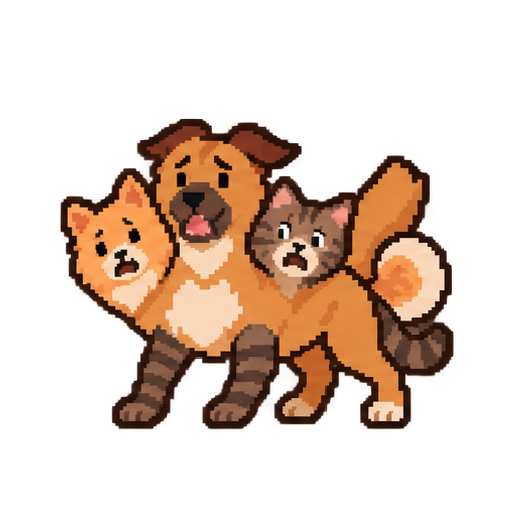
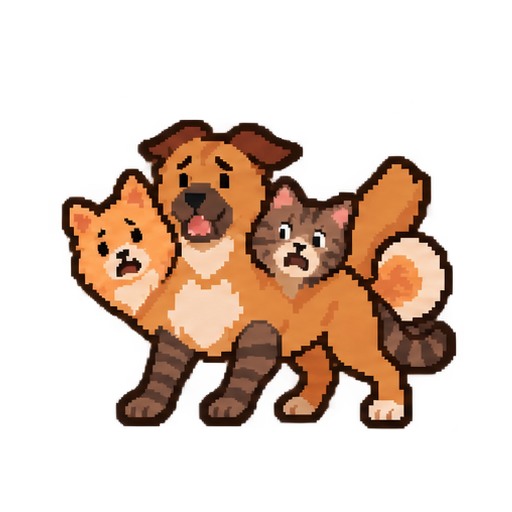
Correct front-leg bend in reaction 10

diff --git a/OfficialAssets/Animations/01e/reactions/README.md b/OfficialAssets/Animations/01e/reactions/README.md
@@ -21,7 +21,7 @@ Each reaction contains eight **512×512 transparent PNG frames**, a **2048×1024
 
 All three heads express the same level. Coat colors remain consistent; expressions, ears, posture and tails carry the progression. These are generated enlarged pixel-art studies, with eight distinct drawn poses rather than literal low-resolution production sprites. The initial pose and body anchor vary slightly between separately generated sequences; future app integration should transition through an idle pose rather than switch directly between their GIFs.
 
-The built-in image-generation tool created the sheets; [generation.json](generation.json) records the exact prompts and repairs. Selected generated sheets are preserved in `sources/`. Corrections repair clipped tails in levels 8/9, soften level 7's expression, and remove detached motion marks in level 10. Both tabby front legs, both golden hind legs, three heads and three tails remain attached to one golden body.
+The built-in image-generation tool created the sheets; [generation.json](generation.json) records the exact prompts and repairs. Selected generated sheets are preserved in `sources/`. Corrections repair clipped tails in levels 8/9, soften level 7's expression, and remove detached motion marks in level 10. Level 10's revised front legs fold with elbows back toward the torso and forearms reaching down and forward to planted paws, correcting the reversed bend through the crouch. Its previous source is preserved as `sources/reaction-10.png`; the active sheet is `sources/reaction-10-v2.png`. Both tabby front legs, both golden hind legs, three heads and three tails remain attached to one golden body.
 
 **Scope:** assets and review gallery only, as requested. The mobile app is unchanged and its roaming character remains independent of daily values. The gallery stores no entries and sends no network requests. With Reduce Motion, keypad presses display final poses; manual Play remains available for inspection. Nothing plays automatically on page load.
 

diff --git a/docs/visual-direction.md b/docs/visual-direction.md
@@ -25,6 +25,7 @@ Additional palette and control-art alternatives are in [`ConceptArt/UI/RETRO-PIX
 
 - **Reaction asset studies:** ten one-shot 01e reactions map 1 (carefree/no stress) through 10 (most stressed) in `OfficialAssets/Animations/01e/reactions/`. The [offline gallery](../OfficialAssets/Animations/01e/reactions/index.html) offers a keypad preview and final-pose comparison; exports include transparent PNG frames/sheets, GIF/WebP, timing and exact prompts. The user chose assets and gallery first. No mobile keypad behavior or value-dependent animation is implemented; the roaming character retains the existing discretion rule.
   All ten reactions and their keypad preview also appear directly in the [main preview gallery](../OfficialAssets/Animations/01e/index.html#reactions), with shared playback/speed/background controls alongside the five everyday animations.
+  Reaction 10's crouch now folds both tabby front legs with elbows back and paws forward, correcting the reversed joint bend. Updated frames and GIF/WebP exports use a revised source sheet; the preceding source and exact repair prompt remain available.
 
 - **Animation assets:** five sequences based on 01e (walking, seated idle, tennis ball, yarn ball, and food-can opening) are prepared in `OfficialAssets/Animations/01e/`, with transparent frames, sprite sheets, GIF/WebP previews, timing metadata, and an [offline review gallery](../OfficialAssets/Animations/01e/index.html). These sequences are asset studies and are not wired into mobile playback; they remain independent of values.
   Walking now uses eight individually drawn poses with staggered front/hind footfalls and visible movement in both golden hind legs, following gait review. The 1.28 s loop and preserved original source are documented in [gait notes](../OfficialAssets/Animations/01e/walking/gait.md).
